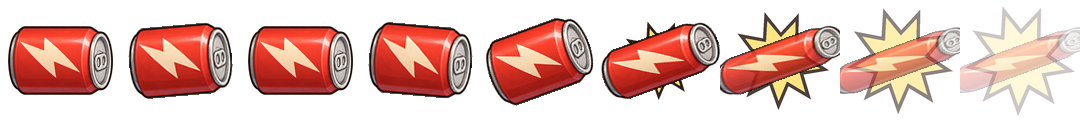
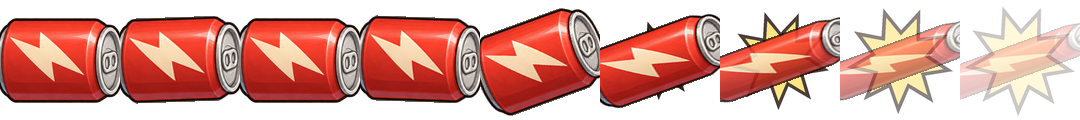
Add files via upload

diff --git a/art/can-tosser/rig.py b/art/can-tosser/rig.py
@@ -1,8 +1,12 @@
 # Can Tosser skeletal rig: composes the 4 hand-painted parts into frames.
-import math, numpy as np
-from PIL import Image
+#
+# The machine is built FACING LEFT (as in the reference): the rear post with the rubber-band anchor is on the launch
+# side, the arm points up and back (right) when it is "ready", the cords pull it forward and the can leaves along the
+# scoop's mouth.  gen_can_anim.py mirrors the finished frames, because the game expects sprites that face right.
+import math, os
+import numpy as np
+from PIL import Image, ImageDraw
 
-import os
 HERE = os.path.join(os.path.dirname(os.path.abspath(__file__)), 'parts')
 P = {k: Image.open(f'{HERE}/{k}.png').convert('RGBA') for k in ('base', 'arm', 'can', 'cap')}
 
@@ -11,10 +15,23 @@ BASE_PIVOT_HOLE = (320, 134)      # axle hole on the base bracket
 BASE_FOOT = (310, 421)            # bottom-centre of the base (stands on the pad here)
 ARM_HOLE = (68, 85)               # axle hole at the arm's round end
 ARM_SC = 0.74
-CAN_SC = 0.49
+CAN_SC = 0.52
 CAP_SC = 0.41
-SCOOP_LOCAL = (440, 62)           # bowl centre in arm-crop coords
-CAN_LOCAL_ROT = 70                # can axis relative to the arm (deg, + = clockwise on screen)
+
+# The can STANDS in the cup: its axis is the scoop's mouth direction (arm-local "up"), lid outward, bottom behind the near rim.
+CAN_CENTER = (455, 48)            # arm-crop coords: centre of the can when it sits in the cup
+CAN_LOCAL_ROT = 0                 # can image already has its lid "up" = the mouth direction
+CAN_SQUASH = 1.0                 # reference can is short and fat; the part sheet's can is tall
+MUZZLE_PUSH = 100                  # arm-crop px along the mouth direction: where the can is when it leaves the cup
+# outline of everything that stands IN FRONT of the can (bowl's end wall + the near rim and shell), arm-crop coords
+FRONT_POLY = [(280, 0), (344, 0), (346, 55), (361, 66), (367, 90), (380, 94), (410, 101), (450, 102), (490, 94), (530, 82),
+              (552, 58), (566, 32), (580, 8), (600, 8), (600, 200), (280, 200)]
+
+# Two rubber cords from the rear post's knob: one to the rivet on the arm, one to the pivot hub.
+CORD_UP = dict(post=(124, 58), arm=(158, 82))       # post: base coords, arm: arm-crop coords
+CORD_LO = dict(post=(124, 82), arm=ARM_HOLE)
+CORD_COL, CORD_OUT, CORD_HI = (52, 54, 64), (14, 14, 20), (130, 134, 150)
+REST_DEG = -42.0                  # "ready" pose; the cords are exactly taut here
 
 S = 0.5                           # world -> output px
 SS = 2                            # supersample
@@ -25,25 +42,19 @@ K = S * SS
 def _M(anchor_local, anchor_world, rot_deg, scale, sx=1.0, sy=1.0):
     """PIL AFFINE coeffs mapping output px -> input px."""
     th = math.radians(rot_deg); c, s = math.cos(th), math.sin(th)
-    # world = aw + R * D * (local - al),  D = scale*diag(sx,sy)
     D = np.array([[scale * sx, 0], [0, scale * sy]])
     R = np.array([[c, -s], [s, c]])
     A = R @ D                           # local->world linear
     Ai = np.linalg.inv(A)
-    # output px (u,v) -> world: w = (u/K + WX0, v/K + WY0)
-    # local = al + Ai (w - aw)
     al = np.array(anchor_local, float); aw = np.array(anchor_world, float)
     lin = Ai / K                        # d local / d(u,v)
     off = al + Ai @ (np.array([WX0, WY0], float) - aw)
     return (lin[0, 0], lin[0, 1], off[0], lin[1, 0], lin[1, 1], off[1])
 
-def place(canvas, key, anchor_local, anchor_world, rot=0, scale=1, sx=1, sy=1, alpha=1.0, img=None):
+def place(canvas, key, anchor_local, anchor_world, rot=0, scale=1, sx=1, sy=1, img=None):
     im = (img or P[key]).convert('RGBa')
     out = im.transform(canvas.size, Image.AFFINE, _M(anchor_local, anchor_world, rot, scale, sx, sy), resample=Image.BICUBIC)
-    out = out.convert('RGBA')
-    if alpha < 1:
-        a = np.array(out); a[..., 3] = (a[..., 3] * alpha).astype(np.uint8); out = Image.fromarray(a)
-    canvas.alpha_composite(out)
+    canvas.alpha_composite(out.convert('RGBA'))
 
 def world_of(local, anchor_local, anchor_world, rot, scale, sx=1, sy=1):
     th = math.radians(rot); c, s = math.cos(th), math.sin(th)
@@ -53,58 +64,97 @@ def world_of(local, anchor_local, anchor_world, rot, scale, sx=1, sy=1):
 def to_px(w):  # world -> output px (not supersampled)
     return ((w[0] - WX0) * S, (w[1] - WY0) * S)
 
-def render(arm_deg=-38, base_dx=0, base_dy=0, base_sx=1, base_sy=1, can=True, can_sc=1.0, can_dy=0,
-           cap_extra=0, extra=None):
+_FRONT = None
+def _front_mask():
+    """Arm-crop-sized image whose alpha is 255 where something in front of the can is (bowl end wall, near rim, shell)."""
+    global _FRONT
+    if _FRONT is None:
+        arm = P['arm']; poly = Image.new('L', arm.size, 0)
+        ImageDraw.Draw(poly).polygon(FRONT_POLY, fill=255)
+        aa = np.array(arm)[..., 3]
+        a = np.minimum(np.array(poly), aa)                          # only where the arm part is actually opaque
+        # the can must never show outside the bowl's outer shell: hide everything below the shell's lowest opaque pixel per column
+        H, W = aa.shape; below = np.zeros((H, W), np.uint8)
+        for x in range(280, W):
+            ys = np.nonzero(aa[:, x] > 40)[0]
+            below[(ys.max() if len(ys) else 0):, x] = 255
+        a = np.maximum(a, below)
+        PADX, PADY = 500, 400                                       # beyond the arm crop's right/bottom edge everything hides the can too
+        full = np.zeros((H + PADY, W + PADX), np.uint8); full[:H, :W] = a; full[:, W:] = 255; full[H:, :] = 255
+        a = full
+        out = np.zeros(a.shape + (4,), np.uint8); out[..., :3] = 255; out[..., 3] = a
+        _FRONT = Image.fromarray(out)
+    return _FRONT
+
+def _cord_pts(a_w, b_w, rest_len, wobble, n=36):
+    """Points along a cord of length ~rest_len between a_w and b_w: straight when taut, sagging when the ends come closer."""
+    ax, ay = a_w; bx, by = b_w
+    L = math.hypot(bx - ax, by - ay) or 1
+    stretch = L / rest_len - 1                      # > 0: stretched, < 0: slack
+    sag = math.sqrt(max(0.0, .375 * rest_len * max(0.0, rest_len - L))) if stretch < 0 else 0.0
+    sag = min(sag, 90)
+    nx, ny = -(by - ay) / L, (bx - ax) / L
+    if ny < 0: nx, ny = -nx, -ny                    # sag downwards
+    pts = []
+    for i in range(n + 1):
+        u = i / n
+        off = 4 * u * (1 - u) * sag + wobble * 20 * math.sin(u * math.pi * 3) * (1 - abs(2 * u - 1) ** 2)
+        pts.append((ax + (bx - ax) * u + nx * off, ay + (by - ay) * u + ny * off))
+    return pts, stretch
+
+def _draw_cord(cv, a_w, b_w, rest_len, wobble):
+    pts, stretch = _cord_pts(a_w, b_w, rest_len, wobble)
+    w = max(3.2, 5.2 - 22 * max(0, stretch)) * K / 2           # a stretched cord gets thinner
+    px = [((x - WX0) * K, (y - WY0) * K) for x, y in pts]
+    lay = Image.new('RGBA', cv.size, (0, 0, 0, 0)); d = ImageDraw.Draw(lay)
+    for x, y in px: d.ellipse((x - w - 2 * K, y - w - 2 * K, x + w + 2 * K, y + w + 2 * K), fill=CORD_OUT + (255,))
+    for x, y in px: d.ellipse((x - w, y - w, x + w, y + w), fill=CORD_COL + (255,))
+    for x, y in px: d.ellipse((x - w * .3, y - w * .45 - w * .3, x + w * .3, y - w * .45 + w * .3), fill=CORD_HI + (255,))
+    for (x, y) in (px[0], px[-1]):                               # knots at both ends
+        r = w * 1.9
+        d.ellipse((x - r - K, y - r - K, x + r + K, y + r + K), fill=CORD_OUT + (255,)); d.ellipse((x - r, y - r, x + r, y + r), fill=CORD_COL + (255,))
+    cv.alpha_composite(lay)
+
+def _rest_lengths():
+    foot_w = BASE_FOOT; hole_w = BASE_PIVOT_HOLE
+    out = []
+    for c in (CORD_UP, CORD_LO):
+        a = world_of(c['post'], BASE_FOOT, foot_w, 0, 1)
+        b = world_of(c['arm'], ARM_HOLE, hole_w, REST_DEG, ARM_SC)
+        out.append(math.hypot(b[0] - a[0], b[1] - a[1]))
+    return out
+REST_LEN = _rest_lengths()
+
+def render(arm_deg=REST_DEG, base_dx=0, base_dy=0, base_sx=1, base_sy=1, can=True, can_slide=0, can_dy=0,
+           extra=None, wobble=0.0):
+    """can_slide: arm-crop px the can is displaced along the mouth direction (negative = out of the cup, positive = down into it)."""
     cv = Image.new('RGBA', (FW * SS, FH * SS), (0, 0, 0, 0))
-    # base squashes about its feet
-    foot_w = (BASE_FOOT[0] + base_dx, BASE_FOOT[1] + base_dy)
+    foot_w = (BASE_FOOT[0] + base_dx, BASE_FOOT[1] + base_dy)          # base squashes about its feet
     place(cv, 'base', BASE_FOOT, foot_w, 0, 1, base_sx, base_sy)
-    # axle follows the squashed base
-    hole_w = world_of(BASE_PIVOT_HOLE, BASE_FOOT, foot_w, 0, 1, base_sx, base_sy)
+    hole_w = world_of(BASE_PIVOT_HOLE, BASE_FOOT, foot_w, 0, 1, base_sx, base_sy)   # axle follows the squashed base
     place(cv, 'arm', ARM_HOLE, hole_w, arm_deg, ARM_SC)
-    scoop_w = world_of(SCOOP_LOCAL, ARM_HOLE, hole_w, arm_deg, ARM_SC)
-    can_w = None
     if can:
-        can_w = (scoop_w[0], scoop_w[1] + can_dy)
+        cx, cy = CAN_CENTER[0], CAN_CENTER[1] + can_slide
+        can_w = world_of((cx, cy), ARM_HOLE, hole_w, arm_deg, ARM_SC)
         cl = Image.new('RGBA', cv.size, (0, 0, 0, 0))
-        place(cl, 'can', (141, 215), can_w, arm_deg + CAN_LOCAL_ROT, CAN_SC * can_sc)
-        # the can may stick out of the bowl's open side, but never through its outer shell
+        place(cl, 'can', (141, 215), (can_w[0], can_w[1] + can_dy), arm_deg + CAN_LOCAL_ROT, CAN_SC, 1.0, CAN_SQUASH)
+        # the bowl's end wall and near rim hide the part of the can that stands inside the bowl
         ml = Image.new('RGBA', cv.size, (0, 0, 0, 0))
-        place(ml, None, ARM_HOLE, hole_w, arm_deg, ARM_SC, img=_arm_mask())
+        place(ml, None, ARM_HOLE, hole_w, arm_deg, ARM_SC, img=_front_mask())
         a = np.array(cl); m = np.array(ml)[..., 3].astype(np.float32) / 255
-        a[..., 3] = (a[..., 3] * m).astype(np.uint8); a[..., :3] = (a[..., :3] * m[..., None]).astype(np.uint8) if False else a[..., :3]
+        a[..., 3] = (a[..., 3] * (1 - m)).astype(np.uint8)
         cv.alpha_composite(Image.fromarray(a))
-        # bowl's near wall hides the can's lower part: redraw the arm's outer scoop on top
-        mask_arm_front(cv, hole_w, arm_deg)
-    place(cv, 'cap', (136, 137), hole_w, arm_deg * 0.0 + cap_extra, CAP_SC)
+    place(cv, 'cap', (136, 137), hole_w, 0, CAP_SC)
+    # the two cords sit on top of everything: post knob -> arm rivet, post knob -> pivot hub
+    for c, rl in zip((CORD_UP, CORD_LO), REST_LEN):
+        a_w = world_of(c['post'], BASE_FOOT, foot_w, 0, 1, base_sx, base_sy)
+        b_w = world_of(c['arm'], ARM_HOLE, hole_w, arm_deg, ARM_SC)
+        _draw_cord(cv, a_w, b_w, rl, wobble)
     if extra: extra(cv)
     fr = cv.resize((FW, FH), Image.LANCZOS)
-    info = dict(foot=to_px(foot_w), scoop=to_px(scoop_w), hole=to_px(hole_w))
+    muzzle_w = world_of((CAN_CENTER[0], CAN_CENTER[1] - MUZZLE_PUSH), ARM_HOLE, hole_w, arm_deg, ARM_SC)
+    info = dict(foot=to_px(foot_w), muzzle=to_px(muzzle_w), hole=to_px(hole_w))
     return fr, info
-
-_ARM_MASK = None
-def _arm_mask():
-    global _ARM_MASK
-    if _ARM_MASK is None:
-        a = np.array(P['arm']); h, w = a.shape[:2]
-        yy = np.mgrid[0:h, 0:w][0]
-        xx = np.mgrid[0:h, 0:w][1]; m = np.where((a[..., 3] > 8) | (yy < 76) | ((xx > 565) & (yy < 125)), 255, 0).astype(np.uint8)
-        out = np.zeros((h, w, 4), np.uint8); out[..., :3] = 255; out[..., 3] = m
-        _ARM_MASK = Image.fromarray(out)
-    return _ARM_MASK
-
-_ARM_FRONT = None
-def mask_arm_front(cv, hole_w, arm_deg):
-    global _ARM_FRONT
-    if _ARM_FRONT is None:
-        a = np.array(P['arm']).copy()
-        h, w = a.shape[:2]
-        yy, xx = np.mgrid[0:h, 0:w]
-        # outer (lower) shell of the scoop: below a curve running along the bowl's near rim
-        keep = (xx > 300) & (yy > 92 - (xx - 300) * 0.02)
-        a[..., 3] = np.where(keep, a[..., 3], 0)
-        _ARM_FRONT = Image.fromarray(a)
-    place(cv, None, ARM_HOLE, hole_w, arm_deg, ARM_SC, img=_ARM_FRONT)
 
 if __name__ == '__main__':
     fr, info = render()

diff --git a/art/can-tosser/gen_can_anim.py b/art/can-tosser/gen_can_anim.py
@@ -3,28 +3,33 @@
 # Needs Pillow + numpy.  Tweak the FIRE / IDLE tables below to change the motion, then re-run and rebuild.
 import sys, json, math, os
 import numpy as np
-from PIL import Image, ImageDraw, ImageFilter
+from PIL import Image, ImageDraw, ImageFilter, ImageOps
 import rig
 from rig import FW, FH
 
 OUT = sys.argv[1] if len(sys.argv) > 1 else os.path.join(os.path.dirname(os.path.abspath(__file__)), '..')
 
-# (name, ms, arm_deg, base_dx, base_sx, base_sy, can_in_scoop, can_scale, can_dy, smear_from)
-IDLE = [(-40.0, 0, 1.000), (-41.4, -2, 1.004), (-40.0, 0, 1.000), (-38.6, 1, 0.996)]
+# Motion.  The machine is built facing LEFT (rig.py) and every frame is mirrored at the end, because the game wants sprites
+# that face RIGHT.  Angles are native (screen degrees, clockwise positive).  Sequence = the reference GIF:
+#   pull the arm back (cords stretch, thin and taut) -> release: the cords snap the arm forward and the standing can leaves
+#   along the scoop's mouth -> arm overshoots, cords go slack and ripple -> returns, a new can rises into the cup.
+# IDLE : (arm_deg, can_dy, base_sy)
+IDLE = [(-42.0, 0, 1.000), (-43.2, -1, 1.004), (-42.0, 0, 1.000), (-40.8, 1, 0.996)]
+# FIRE : ms, arm_deg, base_dx, base_sx, base_sy, can_in_cup, can_slide, smear_from_deg, cord_wobble
 FIRE = [
-  # ms,  arm,  dx,  sx,   sy,   can, can_sc, smear_from
-  (40,  -28,   0, 1.010, 0.985, True, 1.0, None),    # tiny pull-back
-  (45,   -8,   3, 1.030, 0.960, True, 1.0, None),    # crouch / wind-up
-  (35,  -50,  -6, 0.990, 1.020, True, 1.0, -8),      # snap
-  (35,  -76, -11, 0.975, 1.045, False, 1.0, -50),    # RELEASE: can leaves the scoop
-  (45,  -97,  -7, 0.990, 1.015, False, 1.0, -76),    # overshoot
-  (55,  -78,  -3, 1.000, 0.995, False, 1.0, None),
-  (60,  -50,   0, 1.000, 1.000, False, 1.0, None),
-  (60,  -33,   0, 1.000, 1.000, True, 0.55, None),   # next can pops in
-  (55,  -44,   0, 1.000, 1.000, True, 1.12, None),
-  (45,  -40,   0, 1.000, 1.000, True, 1.0, None),
+  (45,  -33,  0, 1.006, 0.994, True,   0, None, 0.0),    # pull back, cords stretch
+  (45,  -26,  1, 1.012, 0.986, True,   0, None, 0.0),
+  (55,  -25,  2, 1.016, 0.980, True,   0, None, 0.0),    # fully drawn, cords taut and thin
+  (30,  -26,  2, 1.014, 0.982, True,   0, None, 0.0),    # hold
+  (30,  -58, -3, 0.985, 1.030, False,  0, -30, 0.4),     # RELEASE: cords snap the arm, can leaves along the mouth
+  (35,  -86, -5, 0.980, 1.034, False,  0, -58, 0.7),
+  (40,  -97, -3, 0.992, 1.012, False,  0, None, 1.0),    # overshoot, cords slack and rippling
+  (40,  -84,  0, 1.000, 1.000, False,  0, None, -0.7),
+  (45,  -64,  0, 1.000, 1.000, True, 215, None, 0.5),    # new can rises into the cup at constant size
+  (45,  -50,  0, 1.000, 1.000, True,  75, None, -0.25),
+  (50,  -42,  0, 1.000, 1.000, True,   0, None, 0.0),
 ]
-RELEASE = 3
+RELEASE = 4
 
 def smear(a0, a1):
     def f(cv):
@@ -34,7 +39,7 @@ def smear(a0, a1):
         lay = Image.new('RGBA', cv.size, (0, 0, 0, 0)); ld = ImageDraw.Draw(lay)
         r0, r1 = 200 * K, 410 * K
         n = 12
-        for i in range(n):   # trailing wedge: faint at the start angle, stronger near the scoop
+        for i in range(n):   # trailing wedge: faint at the start angle, stronger at the arm
             t0, t1 = i / n, (i + 1) / n
             A0 = math.radians(a0 + (a1 - a0) * t0); A1 = math.radians(a0 + (a1 - a0) * t1)
             pts = [(cx + r1 * math.cos(A0), cy + r1 * math.sin(A0)), (cx + r1 * math.cos(A1), cy + r1 * math.sin(A1)),
@@ -44,17 +49,20 @@ def smear(a0, a1):
         cv.alpha_composite(lay)
     return f
 
-def pose(arm, dx=0, sx=1, sy=1, can=True, can_sc=1.0, sm=None, can_dy=0):
+def pose(arm, dx=0, sx=1, sy=1, can=True, slide=0, sm=None, can_dy=0, wob=0.0):
     ex = smear(sm, arm) if sm is not None else None
-    return rig.render(arm_deg=arm, base_dx=dx, base_sx=sx, base_sy=sy, can=can, can_sc=can_sc, can_dy=can_dy, extra=ex)
+    fr, info = rig.render(arm_deg=arm, base_dx=dx, base_sx=sx, base_sy=sy, can=can, can_slide=slide, can_dy=can_dy, extra=ex, wobble=wob)
+    fr = ImageOps.mirror(fr)                                   # native left-facing -> game's right-facing
+    mz = (FW - info['muzzle'][0], info['muzzle'][1])
+    return fr, mz
 
 frames, durs, muz, names = [], [], [], []
 for arm, cdy, sy in IDLE:
-    fr, info = pose(arm, sy=sy, can_dy=cdy); frames.append(fr); durs.append(170); muz.append(info['scoop']); names.append('idle')
-for ms, arm, dx, sx, sy, can, csc, sm in FIRE:
-    fr, info = pose(arm, dx, sx, sy, can, csc, sm); frames.append(fr); durs.append(ms); muz.append(info['scoop']); names.append('fire')
-foot = info['foot']  # fixed ground point (unsquashed foot)
-foot = rig.to_px(rig.BASE_FOOT)
+    fr, mz = pose(arm, sy=sy, can_dy=cdy); frames.append(fr); durs.append(170); muz.append(mz); names.append('idle')
+for ms, arm, dx, sx, sy, can, sl, sm, wb in FIRE:
+    fr, mz = pose(arm, dx, sx, sy, can, sl, sm, wob=wb); frames.append(fr); durs.append(ms); muz.append(mz); names.append('fire')
+ft = rig.to_px(rig.BASE_FOOT)
+foot = (FW - ft[0], ft[1])
 
 # ---- sheet (grid) ----
 COLS = 5
@@ -80,8 +88,11 @@ json.dump({'frames': jf, 'meta': meta}, open(os.path.join(OUT, 'tower.dart.json'
 # ---- shot: flying can + hit splat ----
 SW = 120
 can = rig.P['can']
-cs = rig.CAN_SC * rig.S  # same px scale as in the tower frames
-can_s = can.resize((round(can.width * cs), round(can.height * cs)), Image.LANCZOS).rotate(-90, expand=True, resample=Image.BICUBIC)  # lid points right (+x)
+# Same on-screen size as the can sitting in the cup: the tower sheet is drawn at 46/365 px per px, this sheet at 13/SW.
+FLY_K = (46 / FW) / (13 / SW)
+FLY_SQUASH = 1.0   # a can is taller than wide; only a hint of the cartoon squash so it never looks flattened in flight
+cs = rig.CAN_SC * rig.S * FLY_K
+can_s = can.resize((round(can.width * cs), round(can.height * cs * FLY_SQUASH)), Image.LANCZOS).rotate(-90, expand=True, resample=Image.BICUBIC)  # lid points right (+x)
 
 def on_canvas(img, rot=0, sx=1, sy=1, alpha=1.0, dx=0, dy=0, size=SW):
     c = Image.new('RGBA', (size, size), (0, 0, 0, 0))
@@ -109,7 +120,7 @@ def star(size, r_out, r_in, pts, col, ink, alpha=1.0, rot=0):
 
 INK = (43, 30, 24)
 shot_frames, shot_dur, shot_tag = [], [], []
-for rot, sx, sy in [(0, 1, 1), (5, .98, 1.03), (0, 1, 1), (-5, .98, 1.03)]:
+for rot, sx, sy in [(0, 1, 1), (2, 1, 1), (0, 1, 1), (-2, 1, 1)]:
     shot_frames.append(on_canvas(can_s, rot, sx, sy)); shot_dur.append(90); shot_tag.append('fly')
 hit = [  # (star r_out, alpha, can sx, sy, can alpha)
     (24, 1.0, 1.0, 1.0, 1.0), (40, 1.0, 1.15, .75, 1.0), (50, .85, 1.3, .55, .9), (54, .55, 1.4, .45, .55), (56, .25, 1.45, .4, .25)]
